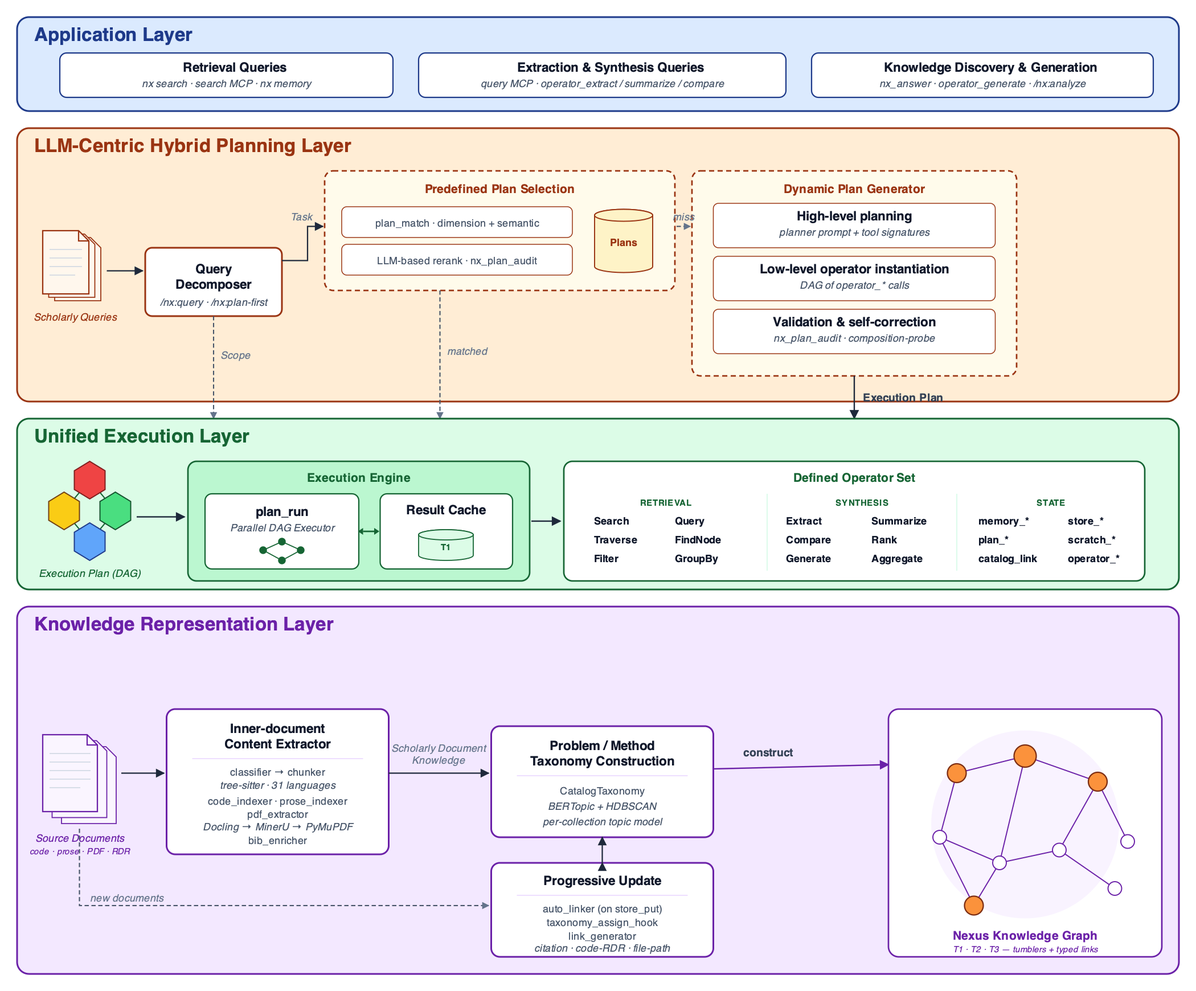
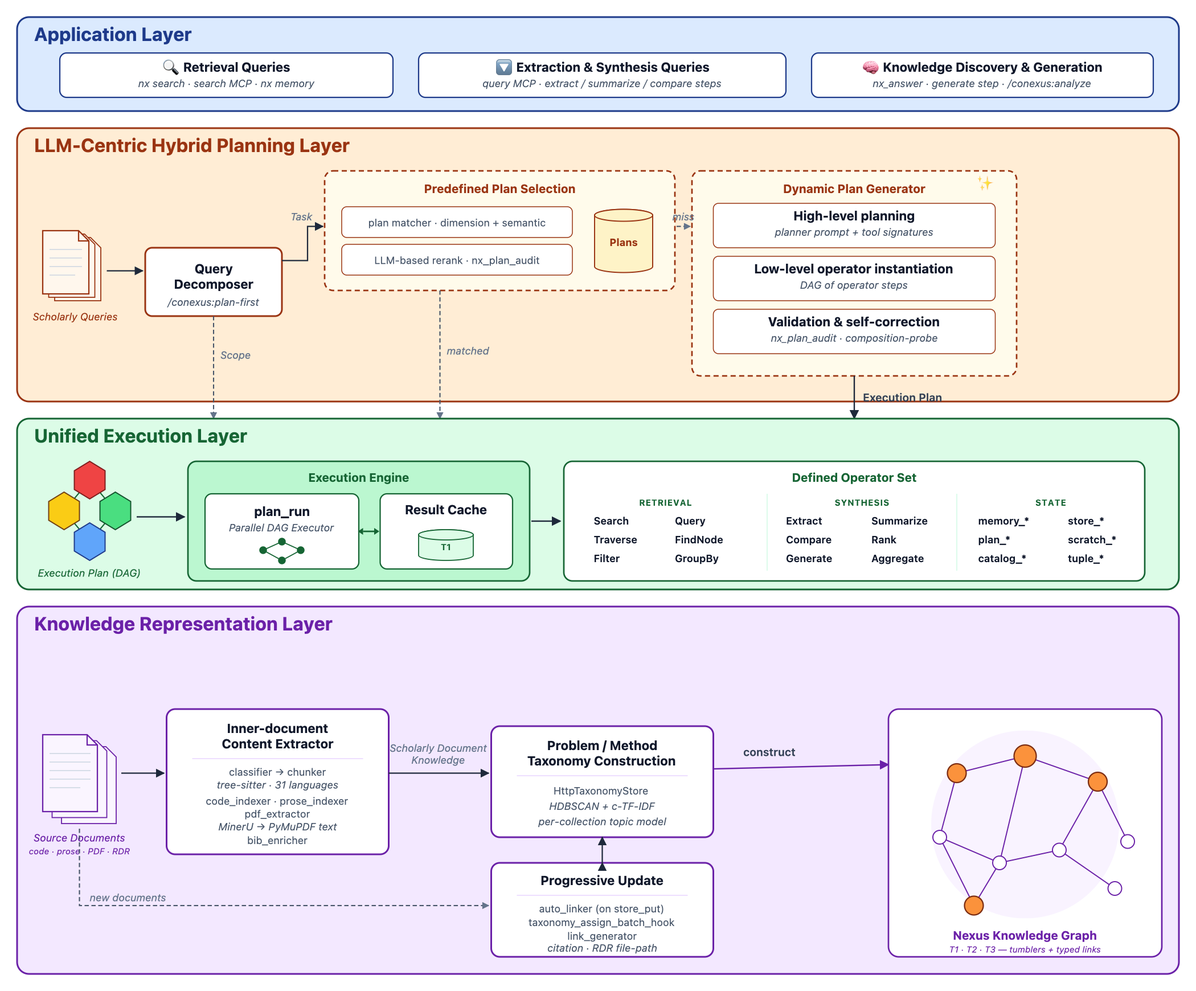
docs(architecture): the collection-identity section (RDR-229), the typed-reason list, and the wrong labels in the diagram and ASCII map
architecture.md gains "Collection Identity": collection_id is the identity and the name a label, the stamp moves, gates 1-3 and the latch, the two rename regimes and the rename_refused window, the name-key drop move, the c<id> mint, reserved labels, the restart entry, and what the engine sends for a collection. The ASCII map shows the registry and the code-RDR heuristic as off; the lifecycle paragraph no longer says T1/T2/T3 share the registry; the data-token mint is described as flock-guarded (it is); the telemetry guard residual is closed; taxonomy data flow, assigned_by values and the CLI table match the code; the typed-reason rule lists the engine's 19 reasons and the client's 17. architecture-diagram.svg drops plan_match, /nx: prefixes, CatalogTaxonomy, BERTopic, operator_* and catalog_link as tools; the PNG is re-rendered from it. storage-tiers.md's diagram shows the registry.

diff --git a/docs/architecture.md b/docs/architecture.md
@@ -15,16 +15,16 @@ The diagram shows four horizontal colored bands stacked vertically, each labeled
 
 The top band (blue, "Application Layer") contains three side-by-side white boxes representing query categories that enter the system: Retrieval Queries (`nx search`, `search` MCP, `nx memory`); Extraction and Synthesis Queries (`query` MCP, and the `extract`, `summarize` and `compare` plan steps inside `nx_answer`); and Knowledge Discovery and Generation (`nx_answer`, its `generate` plan step, `/conexus:analyze`).
 
-The second band (peach, "LLM-Centric Hybrid Planning Layer") is the tallest. On its left edge, a small stack-of-documents icon labeled "Scholarly Queries" feeds horizontally into a Query Decomposer box (`nx_answer`, `/conexus:plan-first`). A "Task" arrow branches upward and rightward into two parallel dashed-border subgroups: "Predefined Plan Selection" (containing `plan_match` with dimension and semantic rerank, an LLM-based rerank step, and a small PlanLibrary cylinder) and "Dynamic Plan Generator" (three stacked stages: High-level planning, Low-level operator instantiation, and Validation and self-correction). A horizontal dashed "miss" arrow connects Selection to Generator as a fallback.
+The second band (peach, "LLM-Centric Hybrid Planning Layer") is the tallest. On its left edge, a small stack-of-documents icon labeled "Scholarly Queries" feeds horizontally into a Query Decomposer box (`/conexus:plan-first`). A "Task" arrow branches upward and rightward into two parallel dashed-border subgroups: "Predefined Plan Selection" (containing the plan matcher with dimension and semantic match, an LLM-based rerank step, and a small Plans cylinder) and "Dynamic Plan Generator" (three stacked stages: High-level planning, Low-level operator instantiation, and Validation and self-correction). A horizontal dashed "miss" arrow connects Selection to Generator as a fallback.
 
 Three arrows cross downward from the Planning band into the third band: a dashed "Scope" arrow directly below the Query Decomposer, a dashed "matched" arrow below the Predefined Plan Selection, and a solid "Execution Plan" arrow below the Dynamic Plan Generator on the right.
 
-The third band (green, "Unified Execution Layer") contains, left to right: a cluster of four colored hexagons connected by lines representing the Execution Plan DAG; an Execution Engine subgroup containing a `plan_run` panel (with a miniature DAG glyph) and a Result Cache cylinder labeled T1, connected by a bidirectional arrow; and a Defined Operator Set box divided into three labeled columns — RETRIEVAL (Search, Query, Traverse, FindNode, Filter, GroupBy), SYNTHESIS (Extract, Summarize, Compare, Rank, Generate, Aggregate), and STATE (`memory_*`, `store_*`, `plan_*`, `scratch_*`, `catalog_link`, `operator_*`).
+The third band (green, "Unified Execution Layer") contains, left to right: a cluster of four colored hexagons connected by lines representing the Execution Plan DAG; an Execution Engine subgroup containing a `plan_run` panel (with a miniature DAG glyph) and a Result Cache cylinder labeled T1, connected by a bidirectional arrow; and a Defined Operator Set box divided into three labeled columns — RETRIEVAL (Search, Query, Traverse, FindNode, Filter, GroupBy), SYNTHESIS (Extract, Summarize, Compare, Rank, Generate, Aggregate; plan steps the runner calls in process, not MCP tools), and STATE (`memory_*`, `store_*`, `plan_*`, `scratch_*`, `catalog_*`, `tuple_*`: MCP tools).
 
-The fourth band (purple, "Knowledge Representation Layer") flows left to right: a stack-of-documents icon labeled "Source Documents" feeds an Inner-document Content Extractor (classifier, chunker via tree-sitter across 31 languages, `code_indexer`, `prose_indexer`, `pdf_extractor` running MinerU with a per-page ladder that ends at the PyMuPDF text layer, `bib_enricher`). An arrow labeled "Scholarly Document Knowledge" continues into Problem/Method Taxonomy Construction (`CatalogTaxonomy`, BERTopic plus HDBSCAN). Below Taxonomy, a Progressive Update box (`auto_linker`, `taxonomy_assign_batch_hook`, `link_generator`) connects bidirectionally upward and receives a dashed "new documents" arrow from Source Documents. A "construct" arrow leads right from Taxonomy to the Nexus Knowledge Graph — rendered as a node-link cluster of orange and white circles — representing the three-tier store (T1 session scratch, T2 Postgres via the native nexus-service, T3 Postgres 17 + pgvector behind the same nexus-service) with tumbler addresses and typed links (`cites`, `implements`, `supersedes`, `relates`).
+The fourth band (purple, "Knowledge Representation Layer") flows left to right: a stack-of-documents icon labeled "Source Documents" feeds an Inner-document Content Extractor (classifier, chunker via tree-sitter across 31 languages, `code_indexer`, `prose_indexer`, `pdf_extractor` running MinerU with a per-page ladder that ends at the PyMuPDF text layer, `bib_enricher`). An arrow labeled "Scholarly Document Knowledge" continues into Problem/Method Taxonomy Construction (`HttpTaxonomyStore`, HDBSCAN plus c-TF-IDF). Below Taxonomy, a Progressive Update box (`auto_linker`, `taxonomy_assign_batch_hook`, `link_generator`: citation and RDR file-path links) connects bidirectionally upward and receives a dashed "new documents" arrow from Source Documents. A "construct" arrow leads right from Taxonomy to the Nexus Knowledge Graph — rendered as a node-link cluster of orange and white circles — representing the three-tier store (T1 session scratch, T2 Postgres via the native nexus-service, T3 Postgres 17 + pgvector behind the same nexus-service) with tumbler addresses and typed links (`cites`, `implements`, `supersedes`, `relates`).
 </details>
 
-Source: [`architecture-diagram.svg`](architecture-diagram.svg) — edit the SVG directly, then re-render the PNG with `rsvg-convert -z 1.5 docs/architecture-diagram.svg -o docs/architecture-diagram.png`.
+Source: [`architecture-diagram.svg`](architecture-diagram.svg) — edit the SVG directly, then re-render the PNG with `rsvg-convert -z 1.5 docs/architecture-diagram.svg -o docs/architecture-diagram.png`. The diagram is layered at the concept level; the collection registry and its identity rules (below) are not drawn.
 
 ## How It Fits Together
 
@@ -41,6 +41,7 @@ CLI (cli.py)            MCP Server (mcp_server.py)
   └──────────┬──────────────┘
              │
     ├── Index: classify → chunk → embed → store
+    │     (`code__<repo>` etc. below are collection LABELS: the registry row, not the string, says which collection it is)
     │     code: classify(SKIP|CODE|PROSE|PDF) → tree-sitter AST → context prefix → voyage-code-3 → code__<repo>
     │           (code spans under 64 chars merge into a neighbour, never dropped: chunk_floor.py, nexus-x50jb; prose is not floored)
     │     prose: SemanticMarkdownChunker (md) or line-split → voyage-context-3 → docs__<repo>
@@ -73,8 +74,15 @@ CLI (cli.py)            MCP Server (mcp_server.py)
     ├── Catalog: engine Postgres truth (Liquibase schema, RLS) → HttpCatalogClient → typed link graph
     │     documents: tumbler addressing (1.owner.doc)
     │     links: eight typed kinds (see catalog.md#link-types)
-    │     auto-generate: citation links (bib metadata), code-RDR (heuristic)
+    │     auto-generate: citation links (bib metadata) and RDR file-path links; the code-RDR
+    │           heuristic pass is OFF since engine v0.1.57 (nexus-ybj1b), nothing writes `implements-heuristic`
     │     surfaces: MCP nexus-catalog server (10 tools) + nx catalog CLI
+    │
+    ├── Collection registry: nexus.catalog_collections (RDR-229; see § Collection identity)
+    │     collection_id (bigint, the identity) + label (the name, a display string) + attributes
+    │     (content_type, owner_id, embedding_model, model_version, dimension, lifecycle_state)
+    │     every engine route takes either; every collection-scoped table references the id
+    │     a write to a collection with no registry row is refused (422 unregistered_collection)
     │
 
     └── Storage tiers ([RDR-120](rdr/rdr-120-storage-substrate-split.md) substrate split; service-mediated)
@@ -97,10 +105,15 @@ CLI (cli.py)            MCP Server (mcp_server.py)
               v0.1.161 with a key and the bge files serves both, RDR-210).
               The client is HttpVectorClient over /v1/vectors; the legacy
               ChromaDB serving path is retired ([RDR-155](rdr/rdr-155-pgvector-t3-consolidation.md)).
+                (the model of a collection is its registry row's embedding_model; the
+                 prefixes below are the label shapes `nx index` renders for repo and
+                 corpus collections, and the model each is created with)
                 code__*       voyage-code-3 (managed) / bge-768 or voyage-code-3 (local)
                 docs__*       voyage-context-3 CCE (managed) / bge-768 or voyage-context-3 (local)
                 rdr__*        voyage-context-3 CCE (managed) / bge-768 or voyage-context-3 (local)
                 knowledge__*  voyage-context-3 CCE (managed) / bge-768 or voyage-context-3 (local)
+                c<id>         a new knowledge subject: a label the engine mints (RDR-229), no prefix;
+                              its content type and model come from the registry row
 ```
 
 **Service-mediated T3 storage ([RDR-155](rdr/rdr-155-pgvector-t3-consolidation.md)).** T3 serving routes through the
@@ -155,26 +168,24 @@ table) see [`docs/container-integration.md`](container-integration.md).
 
 Data flows upward (T1 → T2 → T3).
 
-**Unified daemon-lifecycle substrate ([RDR-149](rdr/rdr-149-unified-service-registry-substrate.md)).** The three tiers
-differ in storage engine and scope (T1 uid-scoped HttpScratchStore, T2
-uid-scoped Postgres, T3 uid-scoped pgvector, all behind the nexus-service) but share
-**one** lifecycle substrate: the leased / fenced / atomic service registry in
+**Unified daemon-lifecycle substrate ([RDR-149](rdr/rdr-149-unified-service-registry-substrate.md)).** The daemons
+that remain share **one** lifecycle substrate: the leased / fenced / atomic service registry in
 [`src/nexus/daemon/service_registry.py`](../src/nexus/daemon/service_registry.py)
 (`ServiceRegistry` + `ServiceSupervisor`). Owner discovery, single-writer
 election, ungraceful-death reap, restart fencing, self-heal re-assert, and
 version-skew cycling all live in that one primitive, parameterized by tier
-and scope. The surviving tiers on this primitive are the storage service
-(`daemon/storage_service_daemon.py`) and the aspect-worker
-(`daemon/aspect_worker_daemon.py`). Three per-tier daemons that used to sit
-here are gone: `daemon/t3_daemon.py` (ChromaDB, RDR-155 P4b),
+and scope. The surviving users of the primitive are the storage service
+(`daemon/storage_service_daemon.py`, which serves T2 and T3 together) and the
+aspect-worker (`daemon/aspect_worker_daemon.py`). The per-tier daemons that
+used to sit here are gone: `daemon/t3_daemon.py` (ChromaDB, RDR-155 P4b),
 `daemon/t2_daemon.py` (SQLite single-writer, nexus-i711w), and
 `daemon/t1_lease.py` (the RDR-149 P4 `ServiceRegistry(tier="t1")` MCP-lifespan
 publisher, re-keyed transient `server_pid` → session-id, retired
-nexus-8zfwv 2026-08-07). T1 does not ride this primitive at all any more —
+nexus-8zfwv 2026-08-07). T1 does not ride this primitive at all any more:
 its live session lease is a standalone flat file
 (`nexus.db.t1.publish_t1_session_lease`, `t1_session_lease.<session_id>`),
 outside `ServiceRegistry`, with no election flock and no re-key protocol.
-Liveness for the tiers that DO ride the primitive is **lease freshness
+Liveness for the daemons that DO ride the primitive is **lease freshness
 (TTL), not pid** — a dead owner's lease ages out, giving pid-reuse immunity.
 MinerU (`daemon/mineru_lifecycle.py`, nexus-1qdb9) consumes the substrate's
 public `election()` spawn guard rather than a full lease: the PDF pipeline's
@@ -214,7 +225,7 @@ Indexing (`nx index repo`, `nx index pdf`, `nx index rdr`) and MCP `store_put`
 auto-register entries via catalog hooks (see [Post-Store Hooks](#post-store-hooks)
 below for the hook contract that wires catalog registration, chash dual-write,
 and taxonomy assignment together on every write). Agents use the catalog to find
-which T3 collection a document lives in (`catalog_search` → `physical_collection`),
+which T3 collection a document lives in (`catalog_search` → `physical_collection`, the collection's label; see [Collection Identity](#collection-identity-rdr-229)),
 traverse typed links (`catalog_links`, e.g. `link_type="cites"`), and scope
 semantic search to relevant collections instead of searching everything.
 
@@ -681,9 +692,10 @@ HttpTaxonomyStore.discover_topics()  # db/t2/http_taxonomy_store.py
   │  upsert cluster centroids → pgvector via nexus-service (HttpCentroidStore)
   ▼
 taxonomy_assign_batch_hook()       # mcp_infra.py  (fires on every store_put batch)
-  │  fetch new doc's T3 embedding
-  │  HttpTaxonomyStore.assign_single(): ANN query against taxonomy__centroids
-  │  nearest centroid → topic_id → insert-if-absent into topic_assignments (ON CONFLICT DO NOTHING, engine-side)
+  │  reads only the batch's chunk chashes; no embedding is fetched
+  │  POST /v1/taxonomy/assignments/assign_from_chashes: the engine matches the
+  │  chunks it just stored to taxonomy_centroids (ANN) and inserts-if-absent
+  │  into topic_assignments (ON CONFLICT DO NOTHING), server-side
   ▼
 search_cross_corpus()              # search_engine.py
   │  default (nexus-tu8wp.3): the batched path, below. The per-collection route
@@ -692,7 +704,7 @@ search_cross_corpus()              # search_engine.py
   │  with the same page (the CLI rerank shape is unmeasured).
   │  With the opt-in, one POST /v1/vectors/search-per-collection per
   │  embedding-model group
-  │  (nexus-tu8wp.2; collections of one prefix share a model, nexus-d9xt2):
+  │  (nexus-tu8wp.2; the group is the collections that share one embedding model, read from each collection's registry row, nexus-d9xt2):
   │  per_collection_k = max(5, n_results*mult) with the group's largest mult,
   │  limit = max(300, 4*n_results) clamped to 1200 (always 1000 with rerank),
   │  finite thresholds only. Each collection's stats and error_kind become that
@@ -728,7 +740,7 @@ search_cross_corpus()              # search_engine.py
 | Table | Purpose |
 |-------|---------|
 | `topics` | One row per discovered topic: label, collection, centroid_hash, doc_count, review_status, terms |
-| `topic_assignments` | doc_id → topic_id mapping, assigned_by (hdbscan or centroid) |
+| `topic_assignments` | doc_id → topic_id mapping, `assigned_by` (`hdbscan`, `auto-matched` on a rebuild, `centroid` for an incremental assign, `manual` for `nx taxonomy assign`, `projection` for `nx taxonomy project --persist`) |
 | `taxonomy_meta` | Per-collection discover stats (last_discover_at, last_discover_doc_count) |
 | `topic_links` | Aggregated inter-topic link counts derived from catalog link graph |
 
@@ -770,6 +782,12 @@ Manual labels survive rebuild via `_merge_labels`.
 | `split` | Split a topic into k sub-topics via KMeans clustering (`--k`) |
 | `links` | Compute and persist inter-topic links from catalog |
 | `project` | Cross-collection projection with `--use-icf` hub suppression ([RDR-077](rdr/rdr-077-projection-quality-similarity-icf.md)) |
+| `hubs` | List topics whose projection assignments span many source collections at low ICF (RDR-077) |
+| `audit` | Projection-quality diagnostics for one source collection; `--fix-doc-count` repairs `doc_count` drift |
+| `reset` | Discard a collection's topics, assignments, links and centroids (documents are untouched; prompts, `--yes` skips) |
+| `drain` | Assign chunks that have no topic in their collection's taxonomy |
+| `acknowledge` | Record chunks the engine permanently refuses to assign (`--list`, `--remove`) |
+| `validate-refs` | Scan markdown for stale collection references (RDR-081) |
 
 ### Projection quality ([RDR-077](rdr/rdr-077-projection-quality-similarity-icf.md))
 
@@ -810,7 +828,7 @@ The ChunkBatcher-driven `nx index repo` path (nexus-nj4ch) is the one exception 
 
 **Enqueue identity & loud-failure contract ([RDR-172](rdr/rdr-172-service-mode-aspect-enqueue-silent-failure.md)).** The `doc_id` the hook forwards to the enqueue is the **catalog document id (tumbler)**, not the chunk hash. `store_put` forwards `catalog_doc_id` — the tumbler `catalog_store_hook` returns when it registers the note-backed document (`mcp/core.py`). Forwarding the chunk hash was the silent-failure bug `nexus-ov0sw`: in service mode the chunk hash is not a registered `catalog_documents` tumbler, so the queue's `doc_id` foreign key rejected it and the best-effort hook swallowed the 500. Three rules now hold. (1) **Blank `doc_id` → NULL**: the no-catalog case forwards `''`, which the service `nullIfBlank`s to SQL `NULL` (a legitimate "no reference" sentinel) and lands a `pending` row with HTTP 200. (2) **Non-blank *unregistered* `doc_id` → typed 4xx, never silent**: a non-blank id that is not a registered tumbler is a client bug (RF-8: no race); the service maps the SQLSTATE class-23 integrity violation to a typed **409** (`{"error","sqlstate"}`, body sanitised) ahead of the generic 500 (`AspectHandler.sqlState23`) — never a silent NULL coercion, never an opaque 500. (3) **Tripwire**: the enqueue stays best-effort (never blocks ingest), but the hook's internal swallow would otherwise hide a failure from `hook_registry`; it therefore persists its own `hook_failures` row (`hook_name='aspect_extraction_enqueue_hook'`, `chain='document'`) and logs `aspect_extraction_enqueue_failed`, and the `--fullstack` ingest E2E asserts **zero** such rows so the silent-total-failure class cannot regress unobserved.
 
-**Registration order.** Pre-RDR-187, `chash_dual_write_batch_hook` was registered before `taxonomy_assign_batch_hook` — load-bearing, because chash rows had to exist before topic assignment ran. That hook is retired; `install_default_hooks` now registers `taxonomy_assign_batch_hook` before `manifest_write_batch_hook`, but the two are independent (taxonomy reads T3 embeddings, the manifest hook reads chunk metadata from the batch's own `indexed_metas`) — no ordering constraint remains in the batch chain, nor in the single-document or document-grain chains.
+**Registration order.** Pre-RDR-187, `chash_dual_write_batch_hook` was registered before `taxonomy_assign_batch_hook` — load-bearing, because chash rows had to exist before topic assignment ran. That hook is retired; `install_default_hooks` now registers `taxonomy_assign_batch_hook` before `manifest_write_batch_hook`, but the two are independent (the taxonomy hook reads only chunk chashes and the engine does the assignment, the manifest hook reads chunk metadata from the batch's own `indexed_metas`) — no ordering constraint remains in the batch chain, nor in the single-document or document-grain chains.
 
 **Failure capture.** Per-hook exceptions are caught in the fire function, logged via structlog, and persisted to T2 `hook_failures`. The `chain` column (T2 4.14.2 migration, [RDR-089](rdr/rdr-089-structured-aspect-extraction-at-ingest.md)) carries an enum value of `'single'`, `'batch'`, or `'document'` distinguishing the chain that fired. Single-document failures store the scalar `doc_id` in the legacy column. Batch failures store a representative scalar (first id) in `doc_id`, the JSON-encoded list in `batch_doc_ids`, and dual-write `is_batch=1` for back-compat with pre-4.14.2 readers. Document-grain failures store the `source_path` in the legacy `doc_id` column (the column carries 'subject of failure' regardless of chain shape). The `nx taxonomy status` reader surfaces all three shapes and reports `affecting M document(s)` whenever a batch row is present (M > scalar count).
 
@@ -973,15 +991,16 @@ endpoint that never returns does not stay for ever. `nx uninstall` removes
 every `data_token_lease.*` file unconditionally (not gated on
 `--remove-data`), alongside the managed credentials.
 
-Concurrency is deliberately NOT `flock`/`O_EXCL`-guarded: two cold
-processes racing to fill an empty/stale cache slot may both mint and both
-publish — last writer wins on the file, and the loser's own in-process
-token is still perfectly valid, just not the one on disk any more. This is
-accepted, not a bug: the race window is bounded to once per TTL-refresh
-boundary per `(base_url, tenant)`, and `MintRateLimiter`'s burst=5 absorbs
-a handful of concurrent cold starts — a double mint produces two
-independently valid tokens, never corruption, so there is no correctness
-reason (only an efficiency one) to add cross-process locking here.
+Cold mints are serialised per host. A miss, or a refresh-due entry with no
+fresher sibling lease, mints under a per-key `flock` on
+`data_token_mint_lock.<key>` (nexus-nnr26; the key is the lease's digest),
+and re-reads the lease file after taking the lock, so one process per host
+mints and its siblings adopt the result. The lock covers only that
+miss-then-mint section, never a read of the lease. The lease file itself
+is still published with atomic temp-file + `os.replace`, so a reader sees
+the old file or the new one, never a torn one. `MintRateLimiter`'s burst of
+5 remains the engine-side backstop for hosts that share one credential
+across machines.
 
 Practical effect: a real `nx` CLI subprocess always has an empty
 in-process cache, so it either mints fresh (the very first invocation
@@ -1090,7 +1109,9 @@ reason must be named in the opt-in itself.
 pytest's own suite is exempt via an IN-PROCESS override, never an env
 var: `tests/conftest.py`'s autouse `_exempt_pytest_from_production_write_guard`
 fixture calls `monkeypatch.setattr(service_endpoint,
-"_test_only_opt_in_reason", "<reason>")` — `service_endpoint._opt_in_reason()`
+"_test_only_opt_in_reason", "<reason>")` (the module also exposes
+`set_test_only_opt_in_reason_for_tests` as a setter for the same attribute)
+— `service_endpoint._opt_in_reason()`
 checks this module attribute FIRST, before ever reading the real
 `NX_ALLOW_PROD_WRITE` env var. An earlier revision used
 `monkeypatch.setenv("NX_ALLOW_PROD_WRITE", ...)` instead, which DOES
@@ -1140,11 +1161,11 @@ for a different reason (there is no `_get`/`_post` split at all —
 everything goes over POST), so it keys on the endpoint PATH's suffix
 instead (`_T3_WRITE_PATH_SUFFIXES`) rather than a per-call flag.
 
-**Residual, not in this guard's scope**: `HttpTelemetryStore.record_routing_event`
-bypasses the guarded transport entirely (a raw
-`self._client.request(...)` call, modeled on the single-attempt shape
-`query_tier_writes_once` — a GET — uses for an unrelated reason). Tracked
-and being fixed under nexus-gjv9b, not this bead.
+**Residual, closed.** `HttpTelemetryStore.record_routing_event` used to bypass
+the guarded transport with a raw `self._client.request(...)` call (nexus-gjv9b).
+It now goes through `_post` with the default `mutates=True`, like every other
+T2 write, so an unopted-in dev checkout is refused before any network
+attempt.
 
 ### Concurrency Model ([RDR-063](rdr/rdr-063-t2-domain-split.md) Phase 2) — HISTORICAL
 
@@ -1294,7 +1315,8 @@ domain stores (all HTTP clients) and runs no schema work; its
 Installs still carrying pre-PG local data use the pinned last
 migration-capable 6.x release (the two-hop redirect).
 
-**Auto-upgrade**: `nx upgrade --auto` runs as the first SessionStart hook,
+**Auto-upgrade**: `nx upgrade --auto` runs as the second SessionStart hook (after
+`nx_setup_notice.py`, which only prints the setup notice),
 converging pending ladder rungs and preconditions silently (there are no
 local T2 migrations — RDR-158 P4 Stage 4).
 
@@ -1327,6 +1349,32 @@ triggers this cleanup (Liquibase gives up on its own after its own 10-minute
 wait and exits, which is what actually triggers it); the terminated pids are
 logged, not discarded.
 
+## Collection Identity (RDR-229)
+
+Design of record: [RDR-229](rdr/rdr-229-collection-name-becomes-a-label.md). A collection is a row of `nexus.catalog_collections`, the per-tenant registry. Since RDR-229 the **identity of that row is `collection_id`** (a `bigint` identity column, unique across the installation, with `UNIQUE (tenant_id, collection_id)` as the target every reference uses). **The name is a label**: a display string that the registry keeps unique among live rows and that a rename may change. Everything the old conformant name (`<content_type>__<owner_id>__<embedding_model>__v<n>`, RDR-103) used to carry sits in columns of the same row: `content_type`, `owner_id`, `embedding_model`, `model_version`, `dimension`, `lifecycle_state`. Code reads those columns; the name is parsed only to register a name the user typed, to import a name from another install, and to report a name that disagrees with its row (`legacy_names`, the one parser left on the client).
+
+Nothing was renamed by the rollout: an existing collection's name became its label unchanged. The shipped phases are 1 to 3; Phase 4 (P4.1, dropping the name columns and keys) has not shipped, so the name columns still exist and several rules below hold "until P4.1".
+
+**Callers.** Every engine route that takes a collection accepts a `collection_id` or a label. A label is resolved to the id once, at the route boundary, by `CollectionRegistry` (keyed by id with a label index beside it), and responses carry both. A request that names an id that no row has is 404 `unknown_collection_id`; the id of a retired row (a rename's or a supersede's tombstone) is 409 `collection_superseded`; a label with no row is the 422 `unregistered_collection`. A write to a collection with no registry row is refused, never stubbed (RDR-204). `nx collection list` shows the id beside the label and attributes, and `nx collection delete` takes either.
+
+**Labels and the mint.** A collection registered by attributes alone (a new `knowledge` subject, via the `(content_type, owner_id, embedding_model, model_version)` tuple) gets an engine-minted label, `c<id>`, with no prefix. A registration finds the live row of the tuple first and mints only when there is none; a partial UNIQUE index on the tuple makes two racing first mints one row. `docs__` and `code__` collections of a repo are registered by `nx index repo` under the rendered conformant label. The label rule, checked wherever a user's label enters (registration, rename target, re-embed target, import): non-empty, valid UTF-8, no control character, at most 255 bytes, no `/`, no `,`, no leading or trailing whitespace, and not of the minted form (`c` and digits), which the engine reserves. A label a one-row rename has moved a collection **away from** stays reserved until P4.1, because name-keyed tables still carry rows under it: a registration, supersede successor, rename target or per-collection import that would make it live is the 409 `label_reserved`, and the mint treats it as taken and draws the next id. A whole-tenant restore loads only an empty tenant and is exempt.
+
+**The stamp (strangler order).** The id reached the referencing tables by expand, switch, contract. Expand: every table that named a collection gained a nullable `collection_id` beside its name column, and the engine writes both on every insert. The old rows are filled by registered **data moves** ([RDR-246](rdr/rdr-246-data-moves-are-background-jobs.md), below): one `rdr229-stamp-<table>` move per table, so no Liquibase changeset rewrites a growing table inside the boot-time schema walk. A CHECK per table (added `NOT VALID`) says a row with a name has an id, and is validated by the move's `on_complete`. A row whose name has no registry row in its tenant (an orphan) cannot be stamped: it leaves the CHECK `NOT VALID` and the label incomplete, the row is write-frozen, and `nx doctor` names the table; the operator registers or deletes the orphans and then runs `SELECT nexus.rdr229_restamp('<table>')`. Switch: each foreign key gets an id twin (`NOT VALID`, validated by its own move), the chunk tables get id keys per leaf and the RDR-225 composite on the id (swap moves), and the engine's per-collection indexes are rebuilt `WHERE collection_id = <id>` under a name hashed from model, tenant and id, so a rename never strands one. The history tables (`relevance_log`, `search_telemetry`, `hook_failures`, `gc_audit`) get a nullable id for joins and keep the label as written: a rename stops rewriting them.
+
+**The completion check: gates 1 to 3 and the latch.** After the schema walk, and again whenever the move worker records a `completed_at`, the engine runs `CompletionCheck` (read only, admin connection). It decides, per install, when readers may leave the name path:
+
+1. every stamp move and every id-twin validation move has completed (and the twin keys are present and validated): the engine's per-collection index pass may start;
+2. also both swap moves, the three child validation moves and the quarantine-origin backfill: the id-predicate index builds may start;
+3. also every collection the planner would index has a VALID id-predicate index, read from the registry and the index catalog (never from the absence of name indexes).
+
+Each gate also refuses while the `catalog_collections_superseded_by_id_check` CHECK is missing. **The latch:** the first time gate 3 holds, the engine writes a row in `nexus.rdr229_gate_latch`; from then on the engine's readers (the id-keyed repositories, `CollectionRegistry`, the SQL readers) go by the latch, so a live gate 3 that dips later (an id index rebuilding) does not move them back. The check reports in its own `GET /v1/status` field, `rdr229_completion` (the three gates, labels still incomplete, CHECKs missing, tables whose VALIDATE waits, each with operator text), never in `boot_work`: the gates wait by design, and a `boot_work` entry would read as work in progress to `nx upgrade`. The field carries no tenant number; the counts behind `nx doctor`'s RDR-229 rows come from the tenant-scoped `GET /v1/catalog/rdr229_completion_counts`. An absent field means "not known yet", never "every gate holds". On an install whose PostgreSQL cannot run the moves (a BYO or `--no-pg-bundle` cluster without the `pg_background` extension), the moves report `blocked:`, no gate holds, the readers stay on names and the rename keeps its old path.
+
+**Rename has two regimes.** Before the latch, a rename is the name path: it rewrites the fourteen name-scoped tables and gives the collection a new registry row and a new id. After it, a rename is **one row**: it updates `catalog_collections.name` and nothing else, and the id is stable. That is only safe once the seven registry name keys that would refuse the UPDATE (`chunks_collection_fk`, `canary_query_ring_collection_fk`, and the `document_aspects`, `topics`, `taxonomy_meta`, `document_highlights` and `topic_assignments` keys; `aspect_extraction_queue`'s too where that table still exists) are gone. The engine registers one more data move at gate 3, the **name-key drop move** (`NameKeyDropMove`), to drop them. Between the latch and the moment the one-row rename can run, the engine refuses a rename with 409 `rename_refused`, and `missing` names what is outstanding: `name_key_drop_move` (not complete), `restart` (a P3.5b changeset has not applied), `latch_row_missing`, `p35b_list_missing`, `readiness_unreadable` or `p35c_readers_absent`. The per-store `rename_collection` routes (chash, taxonomy, telemetry, aspects, highlights) are no-ops in the one-row regime; they answer 409 `rename_not_in_registry` when the registry did not move first, and the engine answers `rename_path_mismatch` when asked for a one-row rename it cannot run. A rename or supersede that cannot lock its registry row within 10 s is 503 `rename_busy`.
+
+**The restart.** A few changesets (P3.5b's SQL readers on tables outside the chunk family) are CONTINUE changesets that apply at the first boot after their move completes. When every stamp move is complete and one of them has not applied, `GET /v1/status` `boot_work` carries an `rdr229-restart` entry and `rdr229_completion` asks for a restart; the one-row rename waits for it. The client's `engine_busy_reason` (`daemon/pg_bundle_refresh.py`) and `boot_work_settled` (`scripts/upgrade_boot_writes.py`) exclude that entry, so `nx upgrade`'s bundle swap, which is the restart, is not deferred by the condition it would resolve. Moves that are still running count as work and do defer it.
+
+**Compatibility.** Past the point where P3.7 ships, the referencing tables' name columns are no longer maintained for a renamed collection, so an engine downgraded past it reads stale names; the safe downgrade point is still open (the rollback runbook for the P3.1 down-step is [`runbooks/rdr-229-p31-rollback.md`](runbooks/rdr-229-p31-rollback.md)). A client that predates a typed reason reads its 409 as a failed call and shows the engine's message; nothing is moved or lost. The recovery bundle carries each collection's registry row from format 3 ([catalog.md](catalog.md)); a bundle from before that imports through the name path for the releases RDR-229 sets.
+
 ## Data Moves (RDR-246)
 
 A Liquibase changeset may change schema; it may not move rows whose count grows with user data, because the changeset walk runs before the engine binds HTTP and a long rewrite would hold the engine down ([RDR-246](rdr/rdr-246-data-moves-are-background-jobs.md)). A *data move* is the replacement: one row in the engine's `nexus.data_moves` registry, registered by a changeset, which the engine works as a background job after it serves. The pieces:
@@ -1334,7 +1382,7 @@ A Liquibase changeset may change schema; it may not move rows whose count grows 
 - **`DataMoveWorker`** (`service/src/main/java/dev/nexus/service/datamove/`) is the engine thread that works open moves, oldest first, one at a time. For each tenant (and, for `nexus.chunks`, each leaf partition) it CALLs dml_utils' `run_migration_chunks_committing` on a dedicated connection, so each chunk commits on its own and a stop resumes from the last committed batch. A failed move is not retried; a blocked one is, with backoff. `NX_DATA_MOVE_SLEEP_MS` overrides every move's `sleep_ms`; see [configuration](configuration.md).
 - **The dml_utils and ddl_utils install.** `DmlUtilsInstaller` applies the two vendored libraries' changelogs (under `service/src/main/resources/db/vendor`, revisions pinned in `pins.properties`) at boot, as `dml_utils_owner`, before the nexus changelog; it never fails a boot over them. The cluster-superuser half, which `nexus_admin` cannot do, is `db/pg_bootstrap/dml_utils.py` (`bootstrap_dml_utils`, called from `db/pg_provision.py`): the `pg_background` extension, the three NOLOGIN library roles and the `liquibase` schema. Best-effort: a bundle without `pg_background` changes nothing and registered moves read `blocked:`.
 - **`boot_work` entries.** `MoveBootWork` publishes each open or failed move in `GET /v1/status` as a `boot_work` entry with id `data-move:<label>` (the state is the text of `what` up to its first colon), and `data-move-worker` or `data-move-boot-work` when the worker or its reporter is not running. `NX_DATA_MOVE_STALL_MINUTES` sets when a silent CALL reads `stalled:`.
-- **`nx doctor`.** `data_moves_health.py` turns those entries into the `Data move <label>`, `Data move worker`, `Data move reporting` and `Data moves` rows ([cli-reference](cli-reference.md#nx-doctor)). The state table and the operator statements are in [engine-service-release](agents/engine-service-release.md#data-moves-a-changeset-changes-schema-a-move-moves-rows-rdr-246).
+- **`nx doctor`.** `data_moves_health.py` turns those entries into the `Data move <label>`, `Data move worker`, `Data move reporting` and `Data moves` rows ([cli-reference](cli-reference.md#nx-doctor)). RDR-229's collection-id stamp, validation, swap and name-key drop moves are the largest user of the registry ([Collection Identity](#collection-identity-rdr-229)); they publish their completion in `rdr229_completion`, not `boot_work`. The state table and the operator statements are in [engine-service-release](agents/engine-service-release.md#data-moves-a-changeset-changes-schema-a-move-moves-rows-rdr-246).
 
 ## Module Map
 
@@ -1421,7 +1469,7 @@ Every shipped template must be *offerable* — reachable by some question. A tem
 
    See [MCP Tools vs Agents](exploration/mcp-vs-agents.md) for the full boundary rule, the stub-agent pattern, and guidance on where to place new capabilities. See [Plan-Centric Retrieval](plan-centric-retrieval.md) for how `nx_answer` + the plan library replaced the earlier retrieval-agent chain.
 
-7. **A typed 4xx body names its cause in `reason`** (nexus-bgvnx) -- the engine's typed error bodies carry a stable, machine-readable top-level `reason` beside the human `error` prose, and a client decides on `reason`, never on the prose. Current values: `unregistered_collection` (422). The 409 bodies predate the rule and keep their own `status` key (`conflict_running`, `stale_run`); they are grandfathered, not renamed. The vocabulary lives in `HttpUtil.sendTypedDbError`'s javadoc (engine) and `nexus.db.engine_reasons` (client); a body with no `reason` is an older engine, and only then may a client fall back to matching wording.
+7. **A typed 4xx body names its cause in `reason`** (nexus-bgvnx) -- the engine's typed error bodies carry a stable, machine-readable top-level `reason` beside the human `error` prose, and a client decides on `reason`, never on the prose. The engine (`HttpUtil`) sends 19 values: `unregistered_collection` (422), `ownerless_chunk_write` (422), `quarantine_restore_busy` (503), `collection_model_mismatch` (409), `collection_superseded` (409), `unknown_collection_id` (404), `collection_id_mismatch` (500, or 409 when a request named both an id and a label that no longer agree), `rename_refused` (409, with `missing`), `rename_path_mismatch` (409), `rename_busy` (503), `rename_not_in_registry` (409), `collection_label_ambiguous` (409), `collection_busy` (409), `label_reserved` (409), `restore_origin_unregistered` (409), `unregistered_embedding_model` (422), `model_partition_missing` (500), `tenant_partition_missing` (500) and `tenant_creation_busy` (503). `nexus.db.engine_reasons` is the client's single copy; at the stack tip it holds 17 of them, and `collection_busy` and `label_reserved` join it with the 8.5.6 client (a client without a case for a reason reads its 409 as a failed call and shows the engine's message). The 409 bodies that predate the rule keep their own `status` key (`conflict_running`, `stale_run`); they are grandfathered, not renamed. The vocabulary lives in `HttpUtil.sendTypedDbError`'s javadoc (engine); a body with no `reason` is an older engine, and only then may a client fall back to matching wording.
 
 ### T1's scopes and the CLI/MCP split-brain (nexus-aj564)
 

diff --git a/docs/storage-tiers.md b/docs/storage-tiers.md
@@ -48,6 +48,8 @@ flowchart TD
   SVC --> PGT2[("Postgres<br/>T2 domain stores")]
 
   SVC --> CAT[("Postgres<br/>catalog (documents · links · manifests)")]
+  CAT --- COLREG[("collection registry<br/>collection_id = identity · name = label<br/>(RDR-229)")]
+  PG -. "chunks reference<br/>the registry row" .-> COLREG
 ```
 
 (The [reference architecture diagram](architecture-diagram.svg) covers the *retrieval / planning* layer: query decomposition, the operator DAG, taxonomy and the knowledge graph. That layer is substrate-agnostic; the diagram above is its storage-plane complement.)
